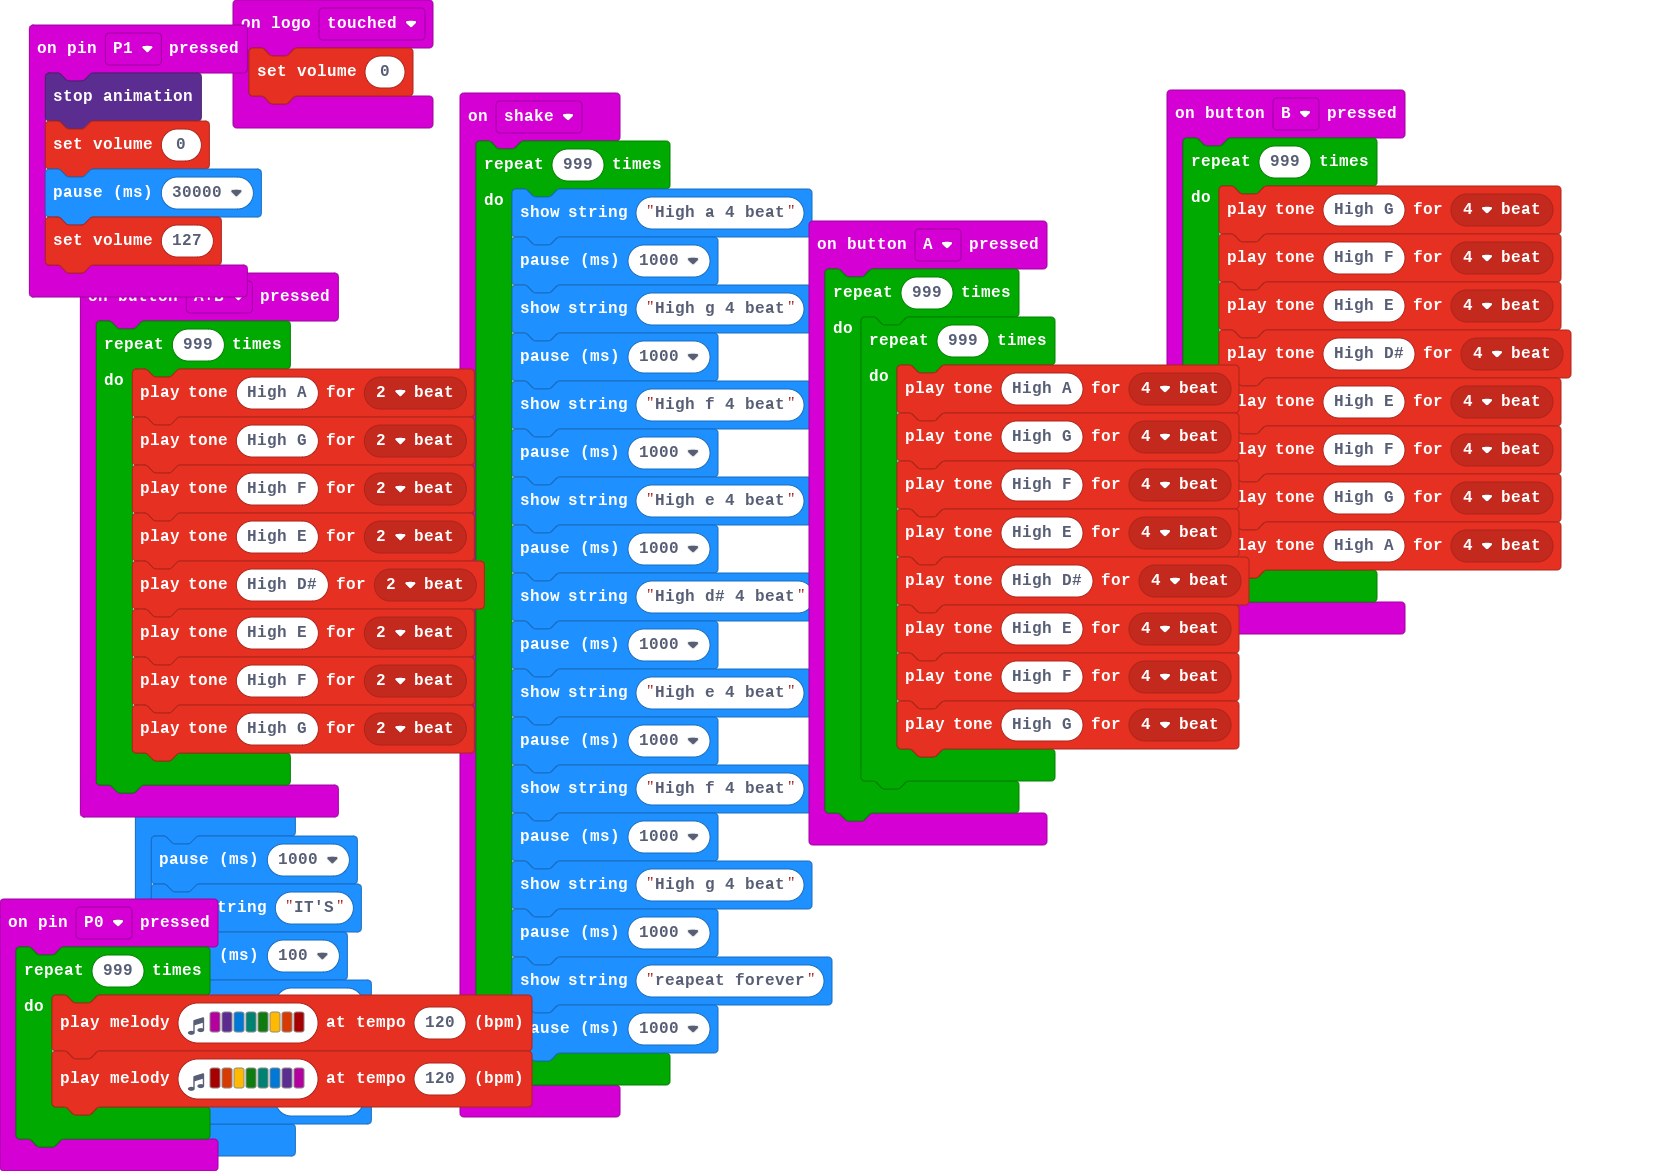
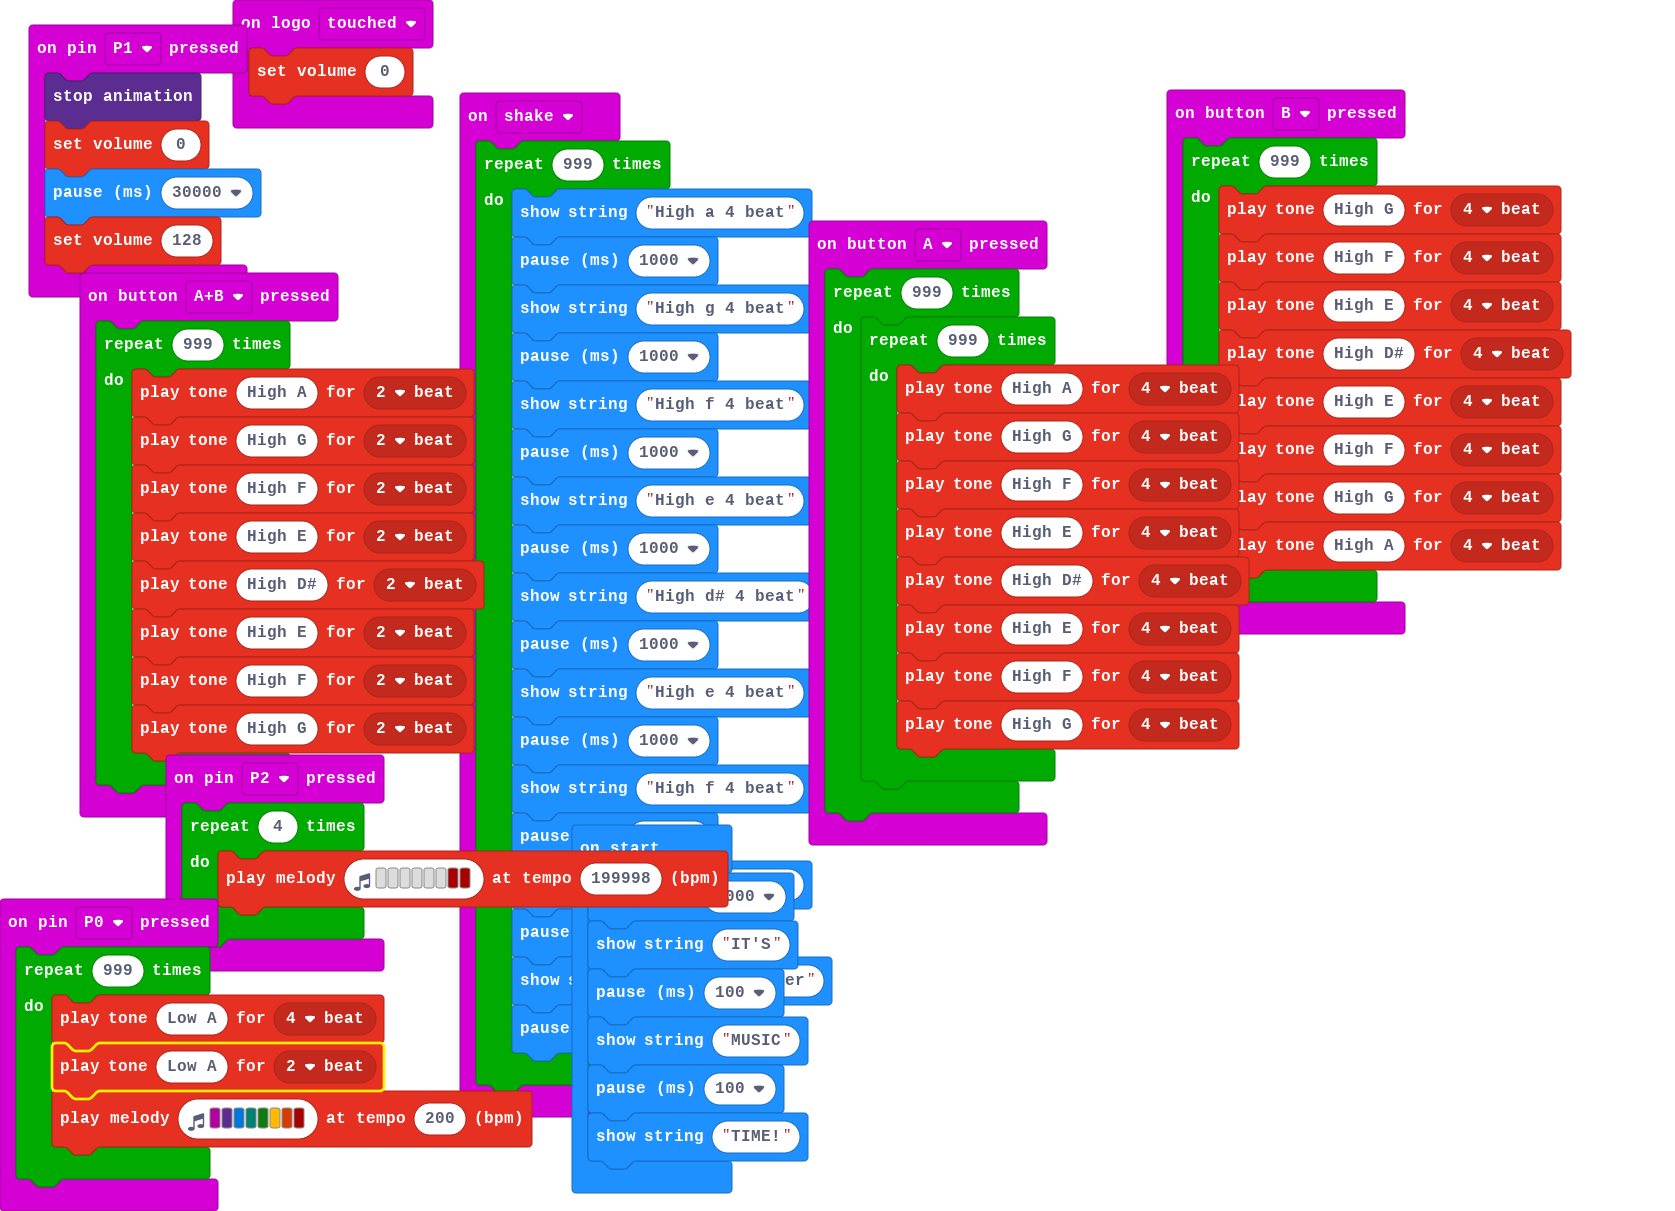
Update main.blocks, main.ts

Changed region(s): [[0.0, 0.0, 0.9313, 1.0]]

diff --git a/main.ts b/main.ts
@@ -1,7 +1,8 @@
 input.onPinPressed(TouchPin.P0, function () {
     for (let index = 0; index < 999; index++) {
-        music.playMelody("C D E F G A B C5 ", 120)
-        music.playMelody("C5 B A G F E D C ", 120)
+        music.playTone(220, music.beat(BeatFraction.Breve))
+        music.playTone(220, music.beat(BeatFraction.Double))
+        music.playMelody("C D E F G A B C5 ", 200)
     }
 })
 input.onButtonPressed(Button.A, function () {
@@ -16,6 +17,11 @@ input.onButtonPressed(Button.A, function () {
             music.playTone(698, music.beat(BeatFraction.Breve))
             music.playTone(784, music.beat(BeatFraction.Breve))
         }
+    }
+})
+input.onPinPressed(TouchPin.P2, function () {
+    for (let index = 0; index < 4; index++) {
+        music.playMelody("- - - - - - C5 C5 ", 199998)
     }
 })
 input.onButtonPressed(Button.AB, function () {
@@ -46,7 +52,7 @@ input.onPinPressed(TouchPin.P1, function () {
     led.stopAnimation()
     music.setVolume(0)
     basic.pause(30000)
-    music.setVolume(127)
+    music.setVolume(128)
 })
 input.onGesture(Gesture.Shake, function () {
     for (let index = 0; index < 999; index++) {
